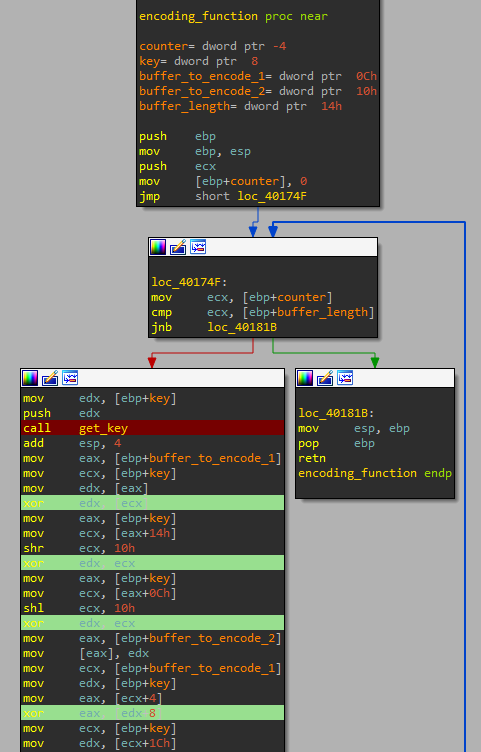
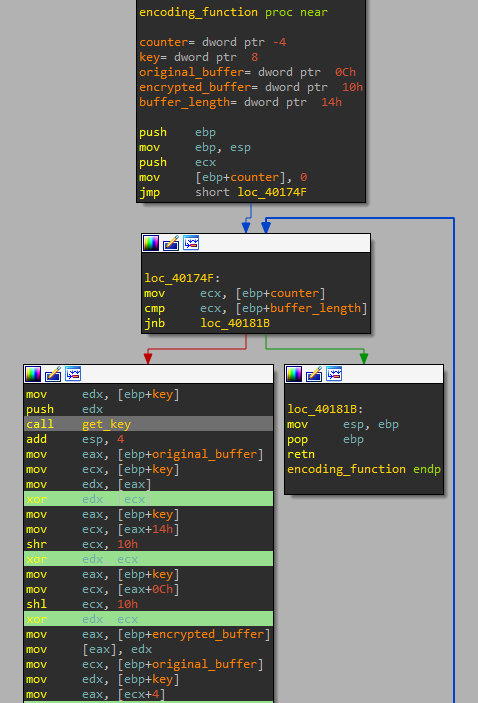
Lab13 exercises (to be completed...)

diff --git a/Scripts/Others/Lab_13/lab13_02_decryption_file.py b/Scripts/Others/Lab_13/lab13_02_decryption_file.py
@@ -1,3 +1,6 @@
+import os
+import sys
+
 # Creates an array of 17 elements, 68 bytes in total
 def initialize_key():
 	return [0] * 17
@@ -113,6 +116,45 @@ def get_key(key):
 
 	return key
 
+def decrypt_file(file):
+	decrypted_bytes = bytearray()
 
-key = initialize_key()
-key = get_key(key)
+	key = initialize_key()
+
+	with open(file, "rb") as encrypted_file:
+		encrypted_bytes = encrypted_file.read(0x10)
+		while encrypted_bytes:
+			key = get_key(key)
+
+			encrypted_bytes_0 = int.from_bytes(encrypted_bytes[0:4], byteorder="little")
+			decrypted_bytes_0 = ((encrypted_bytes_0 ^ ((key[3] << 0x10) & 0xFFFFFFFF)) ^ (key[5] >> 0x10)) ^ key[0]
+
+			encrypted_bytes_1 = int.from_bytes(encrypted_bytes[4:8], byteorder="big")
+			decrypted_bytes_1 = ((encrypted_bytes_1 ^ ((key[5] << 0x10) & 0xFFFFFFFF)) ^ (key[6] >> 0x10)) ^ key[2]
+
+			encrypted_bytes_2 = int.from_bytes(encrypted_bytes[8:12], byteorder="big")
+			decrypted_bytes_2 = ((encrypted_bytes_2 ^ ((key[7] << 0x10) & 0xFFFFFFFF)) ^ (key[1] >> 0x10)) ^ key[4]
+
+			encrypted_bytes_3 = int.from_bytes(encrypted_bytes[12:16], byteorder="big")
+			decrypted_bytes_3 = ((encrypted_bytes_3 ^ ((key[1] << 0x10) & 0xFFFFFFFF)) ^ (key[3] >> 0x10)) ^ key[6]
+
+			# TODO
+			# Copiar los bytes descrifrados a un buffer (conversión a BIG ENDIAN) y copiarlos a un fichero
+
+			break
+			encrypted_bytes = encrypted_file.read(0x10)
+
+def save_decrypted_file(file, decrypted_bytes):
+	decrypted_file = open(file + "_decrypted.bmp", "wb")
+	decrypted_file.write(decrypted_bytes)
+
+def get_file_from_args():
+	filename = sys.argv[1]
+	if os.path.exists(filename):
+		return filename
+
+file = get_file_from_args()
+if file:
+	decrypt_file(file)
+else:
+	print("Please provide a file to decrypt")

diff --git a/Labs/Lab_13.md b/Labs/Lab_13.md
@@ -591,8 +591,199 @@ ZERO[16] = 0;
 
 Now that we understand how the key creation process works, we need to replicate it in a python script.
 
+```
+# Creates an array of 17 elements, 68 bytes in total
+def initialize_key():
+	return [0] * 17
 
-Now, the encryption process will start,
+def setup_first_auxiliar_array(key):
+	first_auxiliar_array = []
+
+	# We fill the indexes 8 to 15 (included) of the array, which corresponds with bytes 32 to 63, with the values of the key
+	for counter in range(8, 16):
+		first_auxiliar_array.append(key[counter])
+
+	return first_auxiliar_array
+
+def get_value_of_second_auxiliar_array(key_value):
+
+	num_1 = key_value & 0xFFFF
+	num_2 = key_value >> 0x10
+	num_3 = (num_1 * num_1) & 0xFFFFFFFF
+	num_4 = num_3 >> 0x11
+	num_5 = (num_1 * num_2) & 0xFFFFFFFF
+	num_6 = (num_4 + num_5) & 0xFFFFFFFF
+	num_7 = num_6 >> 0xF
+	num_8 = (num_2 * num_2) & 0xFFFFFFFF
+	num_9 = (num_7 + num_8) & 0xFFFFFFFF
+	num_10 = (key_value * key_value) & 0xFFFFFFFF
+
+	value = num_9 ^ num_10
+
+	return value
+
+def setup_second_auxiliar_array(key):
+	second_auxiliar_array = []
+
+	# We fill the indexes 0 to 7 (included) of the array, which corresponds with bytes 0 to 31, with the values of the key
+	for counter in range(8, 16):
+		value = get_value_of_second_auxiliar_array(key[counter])
+		second_auxiliar_array.append(value)
+
+	return second_auxiliar_array
+
+def get_second_part_of_key(key, first_auxiliar_array):
+	num_1 = key[16]
+
+	for i in range(8, 16):
+		num_2 = key[i]
+		if i % 3 == 2:
+			value = (num_2 + num_1 + 0x4D34D35D) & 0xFFFFFFFF
+		elif i % 3 == 0:
+			value = (num_2 + num_1 - 0x2CB2CB2D) & 0xFFFFFFFF
+		elif i % 3 == 1:
+			value = (num_2 + num_1 + 0x34D34D34) & 0xFFFFFFFF
+
+		key [i] = value
+	if first_auxiliar_array[i - 8] < value:
+		num_1 = 0
+	else:
+		num_1 = -1
+	
+	key[16] = num_1 & 0xFFFFFFFF
+
+	return key
+
+def rotl(num, bits):
+	INT_BITS = 32
+	return ((num << bits)|(num >> (INT_BITS - bits))) & 0xFFFFFFFF
+
+def get_first_part_of_key(key, second_auxiliar_array):
+
+	num_1 = rotl(second_auxiliar_array[7], 0x10)
+	num_2 = (second_auxiliar_array[0] + num_1) & 0xFFFFFFFF
+	num_3 = rotl(second_auxiliar_array[6], 0x10)
+	key[0] = (num_2 + num_3) & 0xFFFFFFFF
+
+	num_1 = rotl(second_auxiliar_array[0], 0x8)
+	num_2 = (second_auxiliar_array[1] + num_1) & 0xFFFFFFFF
+	key[1] = (num_2 + second_auxiliar_array[7]) & 0xFFFFFFFF
+	
+	num_1 = rotl(second_auxiliar_array[1], 0x10)
+	num_2 = (second_auxiliar_array[2] + num_1) & 0xFFFFFFFF
+	num_3 = rotl(second_auxiliar_array[0], 0x10)
+	key[2] = (num_2 + num_3) & 0xFFFFFFFF
+
+	num_1 = rotl(second_auxiliar_array[2], 0x8)
+	num_2 = (second_auxiliar_array[3] + num_1) & 0xFFFFFFFF
+	key[3] = (second_auxiliar_array[1] + num_2) & 0xFFFFFFFF
+
+	num_1 = rotl(second_auxiliar_array[3], 0x10)
+	num_2 = (second_auxiliar_array[4] + num_1) & 0xFFFFFFFF
+	num_3 = rotl(second_auxiliar_array[2], 0x10)
+	key[4] = (num_2 + num_3) & 0xFFFFFFFF
+
+	num_1 = rotl(second_auxiliar_array[4], 0x8)
+	num_2 = (second_auxiliar_array[5] + num_1) & 0xFFFFFFFF
+	key[5] = (second_auxiliar_array[3] + num_2) & 0xFFFFFFFF
+
+	num_1 = rotl(second_auxiliar_array[5], 0x10)
+	num_2 = (second_auxiliar_array[6] + num_1) & 0xFFFFFFFF
+	num_3 = rotl(second_auxiliar_array[4], 0x10)
+	key[6] = (num_2 + num_3) & 0xFFFFFFFF
+
+	num_1 = rotl(second_auxiliar_array[6], 0x8)
+	num_2 = (second_auxiliar_array[7] + num_1) & 0xFFFFFFFF
+	key[7] = (second_auxiliar_array[5] + num_2) & 0xFFFFFFFF
+
+	return key
+
+def get_key(key):
+	first_auxiliar_array = setup_first_auxiliar_array(key)
+
+	key = get_second_part_of_key(key, first_auxiliar_array)
+	second_auxiliar_array = setup_second_auxiliar_array(key)
+	key = get_first_part_of_key(key, second_auxiliar_array)
+
+	return key
+
+
+key = initialize_key()
+key = get_key(key)
+```
+
+Great, now we can analyze how the encryption routine works.
+
+```
+mov     edx, [ebp+key]						-> EDX = old KEY
+push    edx									-> Put the KEY in the stack (argument for function get_key)
+call    get_key								-> Call to get_key function, this will update the KEY
+add     esp, 4
+mov     eax, [ebp+original_buffer]		-> EAX = ORIGINAL_BUFFER
+mov     ecx, [ebp+key]						-> ECX = KEY
+mov     edx, [eax]							-> EDX = ORIGINAL_BUFFER[0]
+xor     edx, [ecx]							-> EDX = ORIGINAL_BUFFER[0] ^ KEY[0]
+mov     eax, [ebp+key]						-> EAX = KEY
+mov     ecx, [eax+14h]						-> ECX = KEY[5]
+shr     ecx, 10h							-> ECX = KEY[5] >> 10h
+xor     edx, ecx							-> EDX = EDX ^ ECX = (ORIGINAL_BUFFER[0] ^ KEY[0]) ^ (KEY[5] >> 10h)
+mov     eax, [ebp+key]						-> EAX = KEY
+mov     ecx, [eax+0Ch]						-> EAX = KEY[3]
+shl     ecx, 10h							-> ECX = KEY[3] << 10h
+xor     edx, ecx							-> EDX = EDX ^ ECX = ((ORIGINAL_BUFFER[0] ^ KEY[0]) ^ (KEY[5] >> 10h)) ^ (KEY[3] << 10h)
+mov     eax, [ebp+encrypted_buffer]		-> EAX = ENCRYPTED_BUFFER
+mov     [eax], edx							-> ENCRYPTED_BUFFER[0] = EDX
+mov     ecx, [ebp+original_buffer]		-> ECX = ORIGINAL_BUFFER
+mov     edx, [ebp+key]						-> EDX = KEY
+mov     eax, [ecx+4]						-> EAX = ORIGINAL_BUFFER[1]
+xor     eax, [edx+8]						-> EAX = ORIGINAL_BUFFER[1] ^ KEY[2]
+mov     ecx, [ebp+key]						-> ECX = KEY
+mov     edx, [ecx+1Ch]						-> EDX = KEY[6]
+shr     edx, 10h							-> EDX = KEY[6] >> 10h
+xor     eax, edx							-> EAX = EAX ^ EDX = (ORIGINAL_BUFFER[1] ^ KEY[2]) ^ (KEY[6] >> 10h)
+mov     ecx, [ebp+key]						-> ECX = KEY
+mov     edx, [ecx+14h]						-> EDX = KEY[5]
+shl     edx, 10h							-> EDX = KEY[5] << 10h
+xor     eax, edx							-> EAX = EAX ^ EDX = ((ORIGINAL_BUFFER[1] ^ KEY[2]) ^ (KEY[6] >> 10h)) ^ (KEY[5] << 10h)
+mov     ecx, [ebp+encrypted_buffer]		-> ECX = ENCRYPTED_BUFFER
+mov     [ecx+4], eax						-> ENCRYPTED_BUFFER[1] = EAX
+mov     edx, [ebp+original_buffer]		-> EDX = ORIGINAL_BUFFER
+mov     eax, [ebp+key]						-> EAX = KEY
+mov     ecx, [edx+8]						-> ECX = ORIGINAL_BUFFER[2]
+xor     ecx, [eax+10h]						-> ECX = ORIGINAL_BUFFER[2] ^ KEY[4]
+mov     edx, [ebp+key]						-> EDX = KEY
+mov     eax, [edx+4]						-> EAX = KEY[1]
+shr     eax, 10h							-> EAX = KEY[1] >> 10h
+xor     ecx, eax							-> ECX = ECX ^ EAX = (ORIGINAL_BUFFER[2] ^ KEY[4]) ^ (KEY[1] >> 10h)
+mov     edx, [ebp+key]						-> EDX = KEY
+mov     eax, [edx+1Ch]						-> EAX = KEY[7]
+shl     eax, 10h							-> EAX = KEY[7] >> 10h
+xor     ecx, eax							-> ECX = ECX ^ EAX = ((ORIGINAL_BUFFER[2] ^ KEY[4]) ^ (KEY[1] >> 10h)) ^ (KEY[7] << 10h)
+mov     edx, [ebp+encrypted_buffer]		-> EDX = ENCRYPTED_BUFFER
+mov     [edx+8], ecx						-> ENCRYPTED_BUFFER[2] = ECX
+mov     eax, [ebp+original_buffer]		-> EAX = ORIGINAL_BUFFER
+mov     ecx, [ebp+key]						-> ECX = KEY
+mov     edx, [eax+0Ch]						-> EDX = ORIGINAL_BUFFER[3]
+xor     edx, [ecx+18h]						-> EDX = ORIGINAL_BUFFER[3] ^ KEY[6]
+mov     eax, [ebp+key]						-> EAX = KEY
+mov     ecx, [eax+0Ch]						-> ECX = KEY[3]
+shr     ecx, 10h							-> ECX = KEY[3] >> 10h
+xor     edx, ecx							-> EDX = (ORIGINAL_BUFFER[3] ^ KEY[6]) ^ (KEY[3] >> 10h)
+mov     eax, [ebp+key]						-> EAX = KEY
+mov     ecx, [eax+4]						-> ECX = KEY[1]
+shl     ecx, 10h							-> ECX = KEY[1] << 10h
+xor     edx, ecx							-> EDX = EDX ^ ECX = ((ORIGINAL_BUFFER[3] ^ KEY[6]) ^ (KEY[3] >> 10h)) ^ (KEY[1] << 10h)
+mov     eax, [ebp+encrypted_buffer]		-> EAX = ENCRYPTED_BUFFER
+mov     [eax+0Ch], edx						-> ENCRYPTED_BUFFER[3] = EDX
+mov     ecx, [ebp+original_buffer]		-> ECX = Pointer to ORIGINAL_BUFFER
+add     ecx, 10h							-> ECX = (Pointer to ORIGINAL_BUFFER) + 10h
+mov     [ebp+original_buffer], ecx		-> (Pointer to ORIGINAL_BUFFER) = (Pointer to ORIGINAL_BUFFER) + 10h (Pointer update)
+mov     edx, [ebp+encrypted_buffer]		-> EDX = Pointer to ENCRYPTED_BUFFER
+add     edx, 10h							-> EDX = (Pointer to ENCRYPTED_BUFFER) + 10h
+mov     [ebp+encrypted_buffer], edx		-> (Pointer to ENCRYPTED_BUFFER) = (Pointer to ENCRYPTED_BUFFER) + 10h (Pointer update)
+```
+
+At this moment, we should be able to create a script that reproduces the decryption process that the malware performs to the files.
 
 **5. Trace from the encoding function to the source of the encoded content. What is the content?**
 
